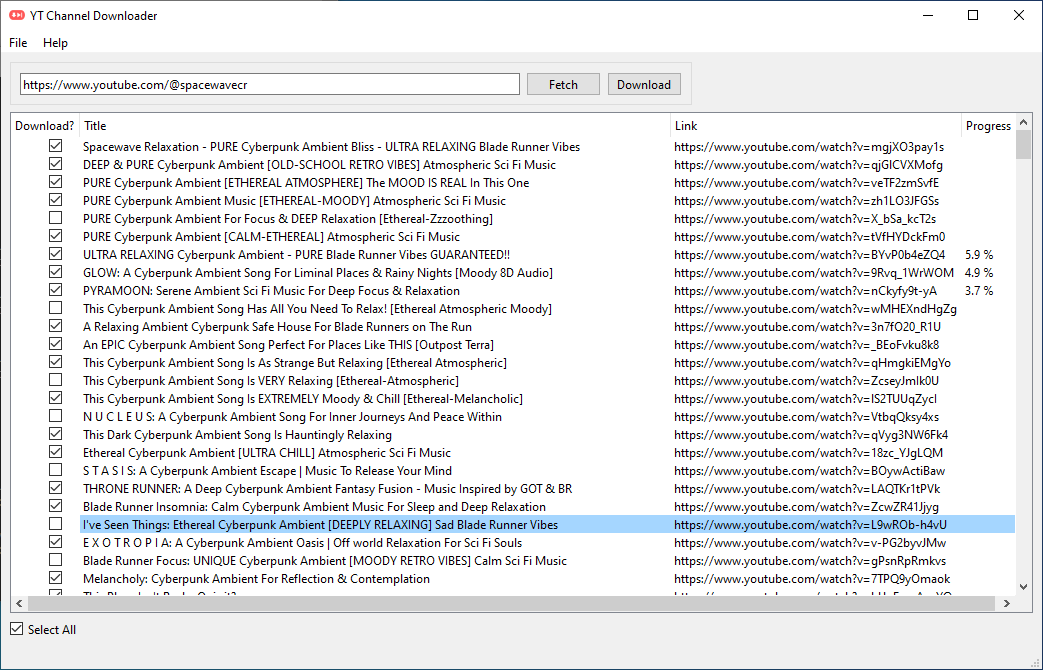
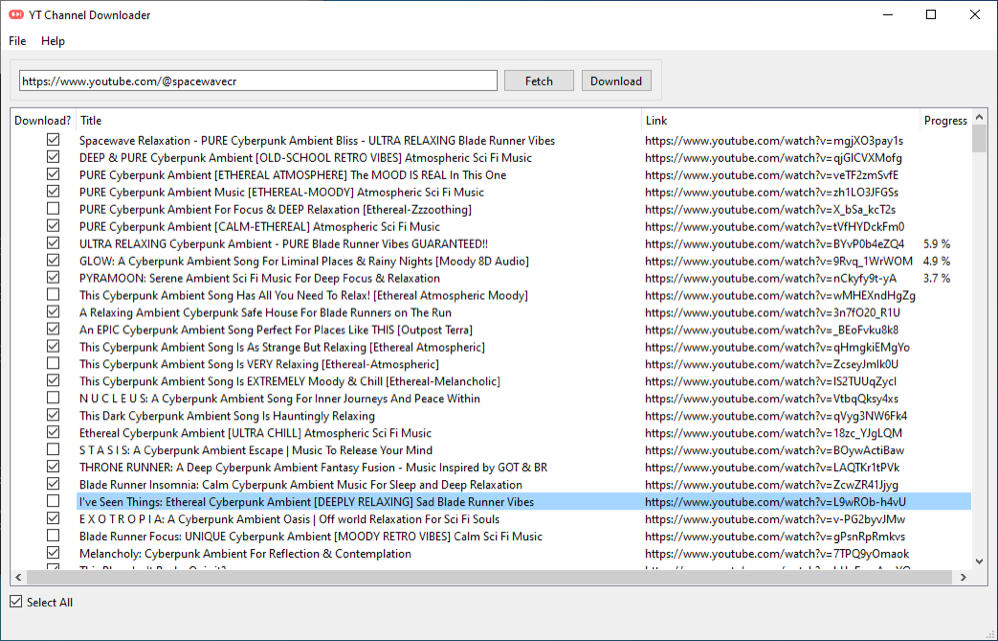
Updated the README with a MacOS version screenshot.

diff --git a/setup.py b/setup.py
@@ -1,0 +1,19 @@
+"""
+This is a setup.py script generated by py2applet
+
+Usage:
+    python setup.py py2app
+"""
+
+from setuptools import setup
+
+APP = ['main.py']
+DATA_FILES = []
+OPTIONS = {}
+
+setup(
+    app=APP,
+    data_files=DATA_FILES,
+    options={'py2app': OPTIONS},
+    setup_requires=['py2app'],
+)

diff --git a/README.md b/README.md
@@ -5,7 +5,8 @@
 **YT Channel Downloader** is an intuitive desktop application built to simplify the process of downloading YouTube media content. Leveraging the robustness of [yt-dlp](https://github.com/yt-dlp/yt-dlp), [scrapetube](https://github.com/dermasmid/scrapetube), and [pytube](https://github.com/pytube/pytube), and enriched with a modern PyQt 6 GUI, this tool offers a seamless experience to download your favorite content.
 
 ![YT Channel Downloader Screenshot (Windows)](screenshot_win.png)
-![YT Channel Downloader Screenshot (Linux)](screenshot.png)
+![YT Channel Downloader Screenshot (Linux)](screenshot_lin.png)
+![YT Channel Downloader Screenshot (MacOS)](screenshot_mac.png)
 
 ---
 
